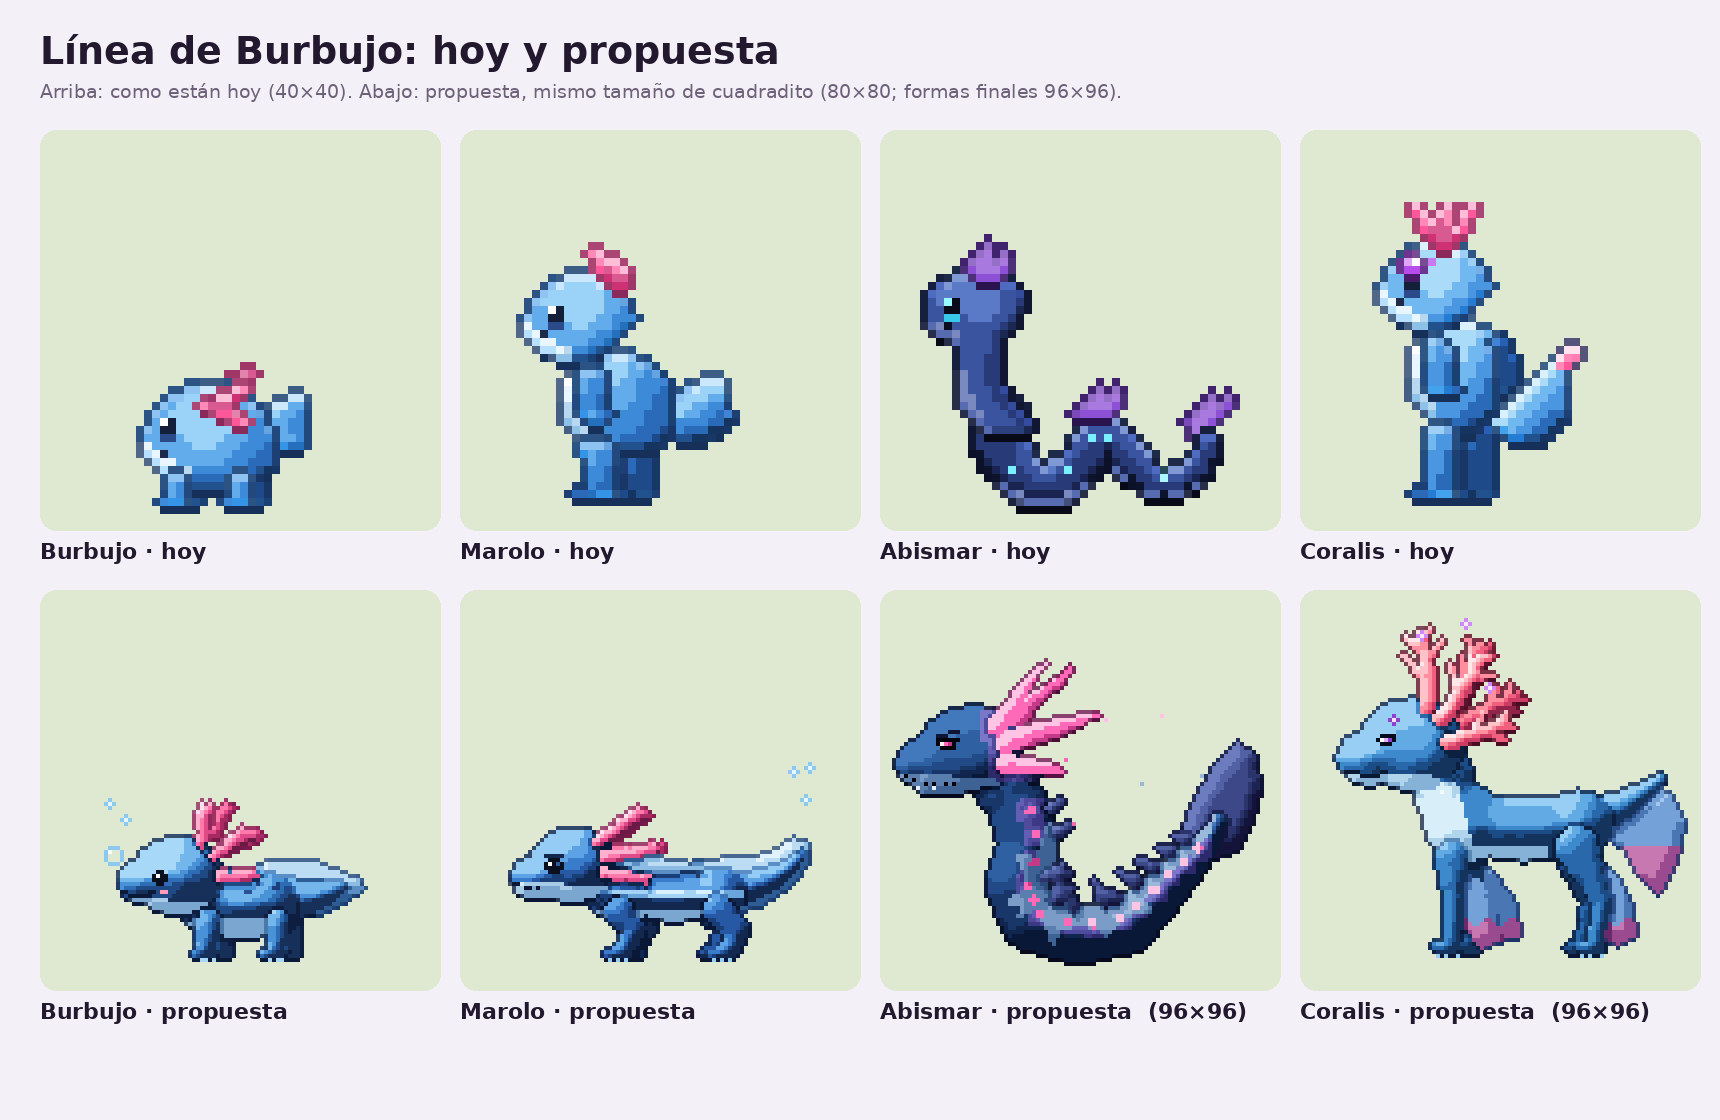
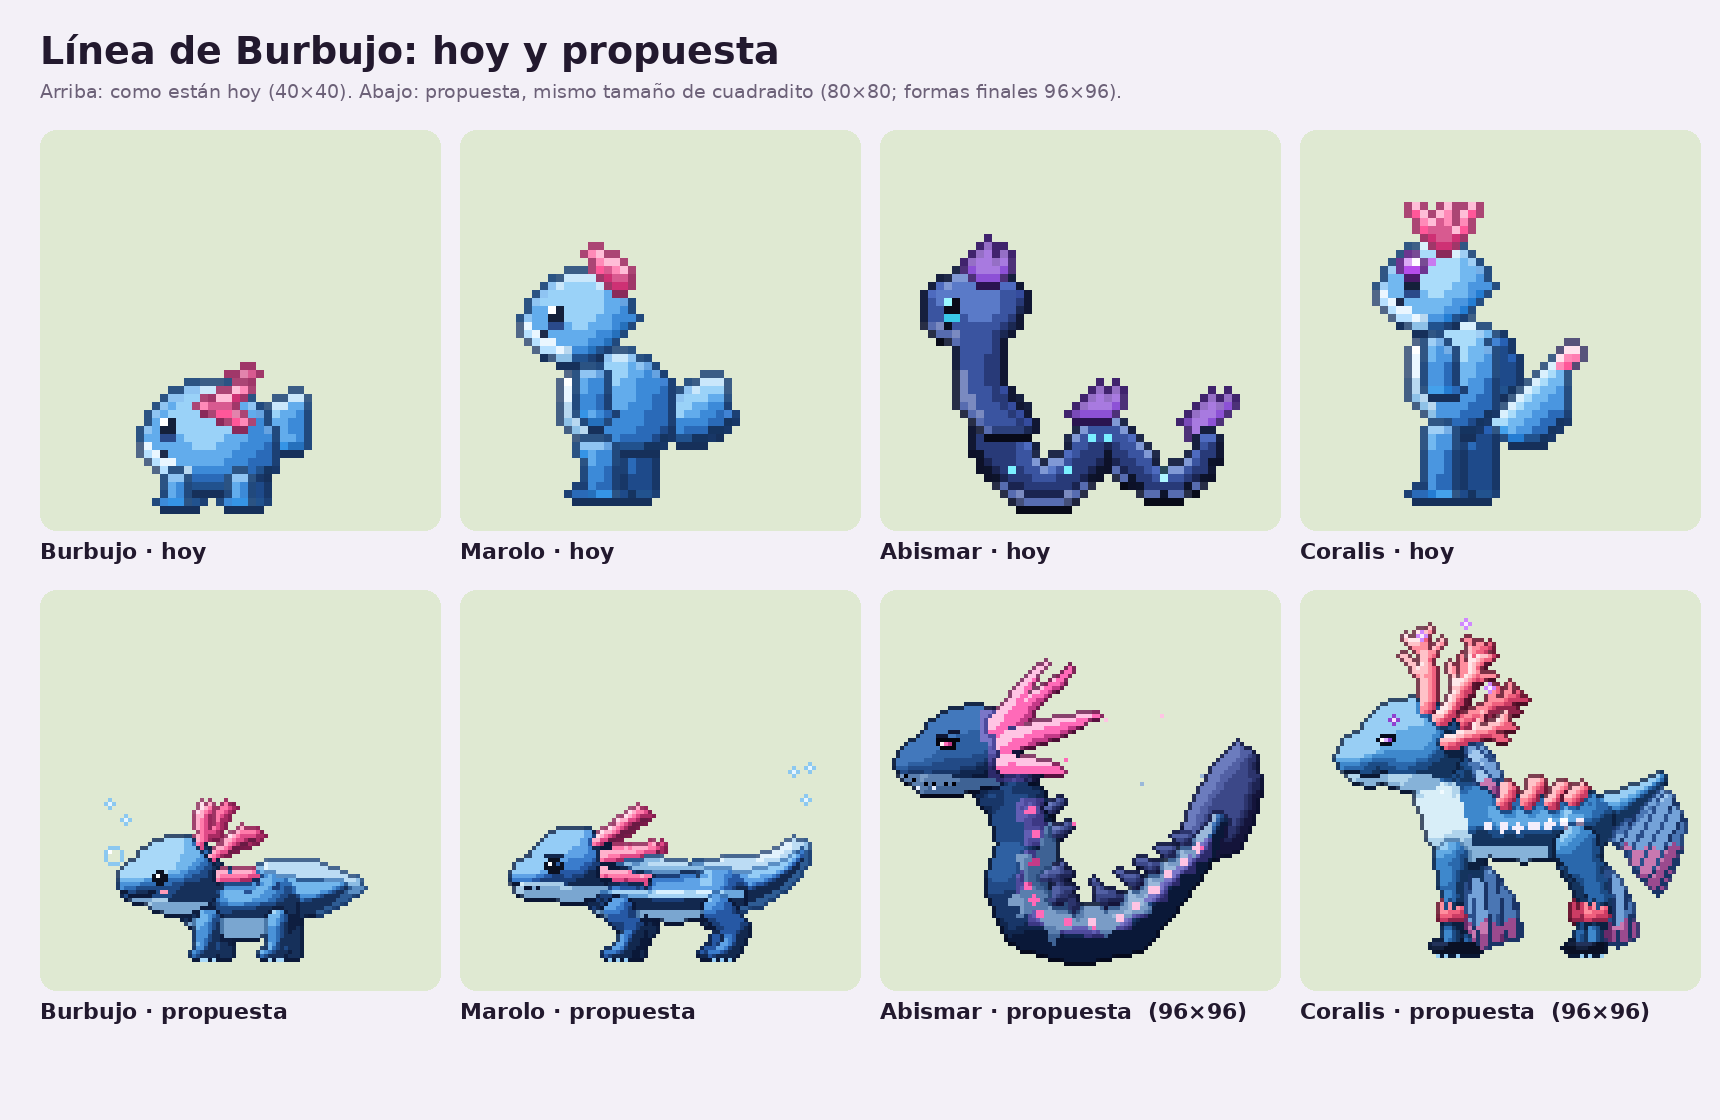
Estudio: Coralis con más detalle (crin-aleta, radios, corales en el lomo, brazaletes, perlas, pezuñas)
Claude-Session: https://claude.ai/code/session_01CbjX1Jp4CqY9crVcrZtYX4

Changed region(s): [[0.832, 0.6562, 0.986, 0.875]]

diff --git a/estudio/coralis/coralis.py b/estudio/coralis/coralis.py
@@ -15,9 +15,12 @@ RAMP = {
     'coral': ['#5a1430', '#92244a', '#cc3c64', '#f0607e', '#ff8e9e', '#ffc2c8', '#ffe8ea'],
     'veil':  ['#2a4e8a', '#4a76b4', '#74a2d8', '#a2c8ee', '#d0e6fa'],
     'veilp': ['#6a2a6a', '#9a4a8e', '#c878b0', '#eaa8d0', '#fcd8ec'],
+    'veild': ['#1a3466', '#2a4e8a', '#4a76b4', '#74a2d8'],
+    'pearl': ['#8a7a9a', '#c8bcd8', '#f4eefc', '#ffffff'],
+    'hoof':  ['#0a1024', '#14203c', '#22325a', '#34487a'],
 }
-MID = {'skin': 4, 'belly': 3, 'coral': 3.6, 'veil': 2.6, 'veilp': 2.4}
-SPAN = {'belly': 3, 'veil': 3, 'coral': 4.5, 'veilp': 3}
+MID = {'veild': 1.6, 'pearl': 2.2, 'hoof': 1.8, 'skin': 4, 'belly': 3, 'coral': 3.6, 'veil': 2.6, 'veilp': 2.4}
+SPAN = {'pearl': 2, 'belly': 3, 'veil': 3, 'coral': 4.5, 'veilp': 3}
 
 
 def coral(c, bx, by, ang, L, far, seed):
@@ -32,14 +35,30 @@ def coral(c, bx, by, ang, L, far, seed):
     c.parte(m, 'coral', R=2, bias=-0.3 if far else 0.04, outline='#4a0e24', far=far)
 
 
+def veil_mat(y_pink, ang=0.35):
+    """velo azul que se vuelve rosado en el borde, con radios finos como las aletas de un pez"""
+    def f(X, Y):
+        m = np.where(Y > y_pink + np.sin(X * 1.3) * 0.8, 'veilp', 'veil').astype(object)
+        m[((X * math.cos(ang) - Y * math.sin(ang)) % 2.9) < 0.75] = 'veild'
+        return m
+    return f
+
+
 def veil(c, pts, far):
     """velo de aleta que cuelga detrás de una pata"""
-    c.parte(c.poly(pts), lambda X, Y: np.where(Y > 67.5 + np.sin(X * 1.3) * 0.8, 'veilp', 'veil').astype(object), R=2.5,
-            bias=-0.3 if far else 0.0, outline='#1a3466', far=far)
+    c.parte(c.poly(pts), veil_mat(67.5, 0.12), R=2.5, bias=-0.3 if far else 0.0, outline='#1a3466', far=far)
 
 
 def leg(c, pts, rr, foot, far):
-    c.parte(c.caps(pts, rr) | c.ell(*foot), 'skin', R=2.5, bias=-0.3 if far else 0.0, far=far)
+    """pata fina con pezuña oscura y brazalete de coral en el tobillo"""
+    b = -0.3 if far else 0.0
+    fx, fy = foot[0], foot[1]
+    c.parte(c.caps(pts, rr) | c.ell(*foot), lambda X, Y: np.where(Y > fy - 1.4, 'hoof', 'skin').astype(object), R=2.5, bias=b, far=far)
+    ax, ay = pts[-1][0], 66.5
+    cuff = c.ell(ax + 0.2, ay, rr[-1] + 1.2, 1.1)
+    for k in range(3):                                           # ramitas del brazalete
+        cuff |= c.caps([(ax - 1.6 + k * 1.6, ay - 0.6), (ax - 2.2 + k * 1.9, ay - 2.4)], [0.7, 0.4])
+    c.parte(cuff, 'coral', R=1.5, bias=b, outline='#4a0e24', far=far)
 
 
 def build(P):
@@ -54,7 +73,7 @@ def build(P):
     # ---- cola larga con velo de betta ----
     c.local(rot=P['tail'], piv=(60, 46))
     tveil = c.poly([(60, 44.5), (66, 42), (71.5, 39), (75 + w, 41), (77 + w, 47), (76 + w, 55), (73, 61), (69, 57), (66, 52), (62, 49.5)])
-    c.parte(tveil, lambda X, Y: np.where(Y > 52, 'veilp', 'veil').astype(object), R=3, outline='#1a3466')
+    c.parte(tveil, veil_mat(52, -0.5), R=3, outline='#1a3466')
     c.parte(c.caps([(59, 46), (65, 43.5), (70, 40.5), (73.5, 37.5)], [3.8, 3.0, 2.0, 1.0]), 'skin', R=3)
     c.local()
     # ---- corona de coral, astas lejanas ----
@@ -62,9 +81,23 @@ def build(P):
     for i, (bx, by, ang, L) in enumerate([(28.5, 23.5, 22, 13.5), (30.5, 27, 62, 12)]):
         coral(c, bx + 2.5, by - 1.2, ang, L, True, i + 5)
     c.local()
+    # ---- crin-aleta translúcida en la nuca, con radios ----
+    c.local(dy=P['head'] * 0.5)
+    mane = c.poly([(26, 27), (29.5, 26.5), (33.5 + w * 0.6, 29), (37 + w, 33), (39.5 + w, 37.5), (40.5, 41.5), (36, 42.5), (33, 38), (30, 33.5)])
+    c.parte(mane, veil_mat(38.5, 0.9), R=3, outline='#1a3466')
+    c.local()
     # ---- cuerpo esbelto y cuello erguido ----
     body = c.ell(33, 47, 8.5, 7.8) | c.ell(45, 48, 13.5, 6.6) | c.ell(56, 47.2, 7.5, 6.8) | c.ell(28.5, 39.5, 5.8, 8, 0.25)
-    c.parte(body, lambda X, Y: np.where(((X < 31.5 + (Y - 40) * 0.25) & (Y > 38)) | ((Y > 51.5 + (X - 40) ** 2 * 0.002) & (X < 50)), 'belly', 'skin').astype(object), R=8)
+    def body_mat(X, Y):
+        m = np.where(((X < 31.5 + (Y - 40) * 0.25) & (Y > 38)) | ((Y > 51.5 + (X - 40) ** 2 * 0.002) & (X < 50)), 'belly', 'skin').astype(object)
+        for i in range(7):                                              # fila de perlas en el costado
+            px, py = 37.5 + i * 3.2, 47.4 + math.sin(i * 0.9) * 0.5
+            m[np.hypot(X - px, Y - py) < 1.05] = 'pearl'
+        return m
+    c.parte(body, body_mat, R=8)
+    # pequeñas ramas de coral a lo largo del lomo
+    for i, (bx, by, ang, L) in enumerate([(41, 42.4, 10, 3.6), (46, 42.2, 20, 4.4), (51, 42.4, 28, 3.8), (55.2, 41.8, 40, 3.2)]):
+        coral(c, bx, by, ang, L, False, i + 11)
     # ---- patas cercanas, con sus velos ----
     veil(c, [(31.5, 56), (35, 58.5), (38 + w, 64.5), (39 + w, 71), (36, 72.5), (33, 69), (31.5, 63)], False)
     leg(c, [(30, 54), (30.5, 63), (30, 71)], [3.3, 2.2, 1.9], (28.8, 72.8, 3.1, 1.5), False)
